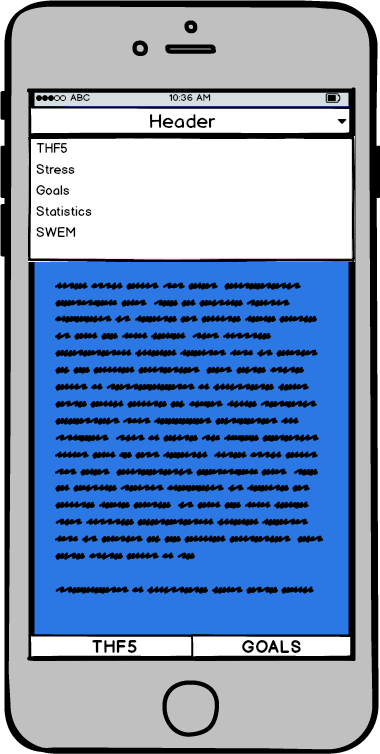
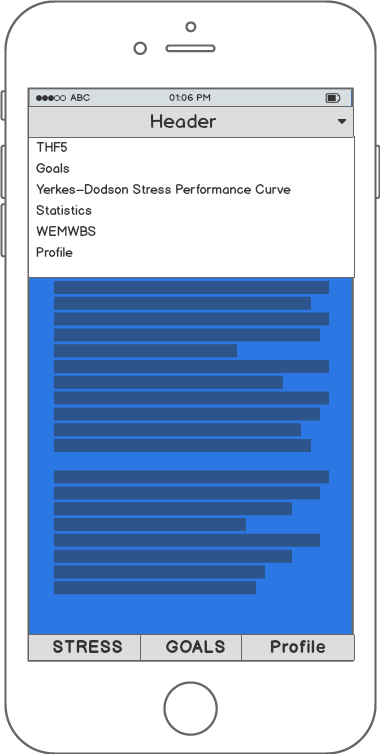
finalized all.
Updated wireframes.
Delete link of homepage.
Formatting several pages.

diff --git a/html5up-helios/development.html b/html5up-helios/development.html
@@ -6,7 +6,7 @@
 -->
 <html>
 	<head>
-		<title>TH5 - Development</title>
+		<title>Development - The Human Five Team 34</title>
 		<meta charset="utf-8" />
 		<meta name="viewport" content="width=device-width, initial-scale=1" />
 		<!--[if lte IE 8]><script src="assets/js/ie/html5shiv.js"></script><![endif]-->
@@ -25,7 +25,7 @@
 					<!-- Inner -->
 						<div class="inner">
 							<header>
-								<h1><a href="index.html" id="logo">The Human Five</a></h1>
+								<h1><a>Development - The Human Five</a></h1>
 							</header>
 						</div>
 
@@ -97,12 +97,11 @@
 							<div class="col-lg-12 text-center">
 								<h2 class="section-heading">Prototypes</h2><br>
 								<p align="left"><strong>
-									<h3>Register, goals and loading</h3><br>
+									<h3><u>Wireframes</u></h3><br><br>
 									<div class="row">
 										<div class="col-md-2">
 											<p class="text-center"> Register</p><img src="images/Wireframe_png/THF5- Register page.png">
 										</div>
-										<div class="col-md-1"></div>
 										<div class="col-md-2">
 	                                        <p class="text-center"> Goals</p><img src="images/Wireframe_png/THF5-Goals page.png">
 										</div>
@@ -122,7 +121,7 @@
 	                                    </div>
 	                                    <div class="col-md-1"></div>
 	                                    <div class="col-md-2">
-	                                            <p class="text-center"> THF5</p><img src="images/Wireframe_png/THF5-RateSelf page.png">
+	                                            <p class="text-center"> THF5 </p><img src="images/Wireframe_png/THF5- RateSelf Body.png">
 	                                    </div>
                                     </div>
                                     <div class="row">
@@ -140,46 +139,57 @@
 	                                    </div>
 	                                    <div class="col-md-1"></div>
 	                                    <div class="col-md-2">
-	                                            <p class="text-center"> SWSE</p><img src="images/Wireframe_png/THF5-SWSE page.png">
+	                                            <p class="text-center"> WEMWBS</p><img src="images/Wireframe_png/THF5- WEMWBS page.png">
 	                                    </div>
                                     </div>		
-
+<div class="row">
+	                                    <div class="col-md-2">
+	                                            <p class="text-center">Menu</p><img src="images/Wireframe_png/THF5-Menu page.png">
+	                                    </div>
+	                                    <div class="col-md-1"></div>
+	                                    <div class="col-md-2">
+	                                            <p class="text-center">Profile</p><img src="images/Wireframe_png/THF5 - Profile.png">
+	                                    </div>
+                                    </div>
+                                   
+                                   
                                     
 
+                                    <br><br><br><br><h3><u>Prototypes</u></h3><br><br>
 
                                     <div class="row">
 	                                    <div class="col-md-2" style="width: 35%;">
-	                                            <p class="text-center"> Login</p><img src="images/Wireframe_png/1.jpg" style="width: 90%;">
+	                                            <p class="text-center"> Login</p><img src="images/Wireframe_png/1.jpg" class="img-border" style="width: 90%;">
 	                                    </div>
 	                                    <div class="col-md-1"></div>
 	                                    <div class="col-md-2" style="width: 35%;">
-	                                            <p class="text-center"> Register</p><img src="images/Wireframe_png/2.jpg" style="width: 90%;">
+	                                            <p class="text-center"> Register</p><img src="images/Wireframe_png/2.jpg" class="img-border" style="width: 90%;">
 	                                    </div>
                                     </div>
 
                             		<div class="row">
 	                                    <div class="col-md-2" style="width: 35%;">
-	                                            <p class="text-center"> THF5</p><img src="images/Wireframe_png/3.jpg" style="width: 90%;">
+	                                            <p class="text-center"> THF5</p><img src="images/Wireframe_png/3.jpg" class="img-border" style="width: 90%;">
 	                                    </div>
 	                                    <div class="col-md-1"></div>
 	                                    <div class="col-md-2" style="width: 35%;">
-	                                            <p class="text-center"> Stress</p><img src="images/Wireframe_png/4.jpg" style="width: 90%;">
+	                                            <p class="text-center"> Stress</p><img src="images/Wireframe_png/4.jpg" class="img-border" style="width: 90%;">
 	                                    </div>
                                     </div>
 
 
                                     <div class="row">
 	                                    <div class="col-md-2" style="width: 35%;">
-	                                            <p class="text-center"> Goals</p><img src="images/Wireframe_png/5.jpg" style="width: 90%;">
+	                                            <p class="text-center"> Goals</p><img src="images/Wireframe_png/5.jpg"  class="img-border" style="width: 90%;">
 	                                    </div>
 	                                    <div class="col-md-1"></div>
 	                                    <div class="col-md-2" style="width: 35%;">
-	                                            <p class="text-center"> SWSE</p><img src="images/Wireframe_png/6.jpg" style="width: 90%;">
+	                                            <p class="text-center"> Add Goals</p><img src="images/Wireframe_png/6.jpg" class="img-border" style="width: 90%;">
 	                                    </div>
                                     </div>		
                                      <div class="row">
 	                                    <div class="col-md-2" style="width: 35%;">
-	                                            <p class="text-center"> Stress</p><img src="images/Wireframe_png/7.jpg" style="width: 90%;">
+	                                            <p class="text-center"> Statistics</p><img src="images/Wireframe_png/7.jpg" class="img-border" style="width: 90%;">
 	                                    </div>
 	                                 </div>
 	                                 </strong>				
@@ -206,7 +216,7 @@
 								<div class="col-lg-12 text-center">
 									<h2 class="section-heading">GitHub Repository</h2>
 										<a href="https://github.com/Keshav97/NHS-IBM-Genomics">
-										<b>Click to visit our GitHub.</b>
+										<br><br><b>Click to visit our GitHub.</b>
 										</a>
 								</div>
 							</div>

diff --git a/html5up-helios/index.html b/html5up-helios/index.html
@@ -6,7 +6,7 @@
 -->
 <html>
 	<head>
-		<title>System Engineering - Team 34</title>
+		<title>The Human Five - Team 34</title>
 		<meta charset="utf-8" />
 		<meta name="viewport" content="width=device-width, initial-scale=1" />
 		<script src="https://ajax.googleapis.com/ajax/libs/jquery/3.1.1/jquery.min.js"></script>
@@ -39,7 +39,7 @@
 					<!-- Inner -->
 						<div class="inner">
 							<header>
-								<h1><a href="index.html" id="logo">The Human Five</a></h1>
+								<h1><a>The Human Five</a></h1>
 								<hr />
 								<p>A Physical and Mental Health Application </p>
 							</header>
@@ -126,7 +126,7 @@
 						<article>
 							<a href="#" class="image featured"><img class="feature"src="images/Self-Assessment.jpg" alt="" /></a>
 							<header>
-								<h3><a href="#">Self-Assessment</a></h3>
+								<h3>Self-Assessment</h3>
 							</header>
 							<p>The application allows each user to rate themselves regularly and setup up goals on a daily/weekly basis.</p>
 						</article>
@@ -134,7 +134,7 @@
 						<article>
 							<a href="#" class="image featured"><img class="feature"src="images/evaluation.jpg" alt="" /></a>
 							<header>
-								<h3><a href="#">Progress Evaluation</a></h3>
+								<h3>Progress Evaluation</h3>
 							</header>
 							<p>The user is able to see his/her data in a graphical way and thus evaluate the progress over time.</p>
 						</article>
@@ -142,7 +142,7 @@
 						<article>
 							<a href="#" class="image featured"><img class="feature"src="images/data-confidentiality.jpg" alt="" /></a>
 							<header>
-								<h3><a href="#">Data Confidentiality</a></h3>
+								<h3>Data Confidentiality</h3>
 							</header>
 							<p>All the users' data will be encrypted to ensure that confidentiality is maintained.</p>
 						</article>
@@ -150,7 +150,7 @@
 						<article>
 							<a href="#" class="image featured"><img class="feature"src="images/cross-platform.png" alt="" /></a>
 							<header>
-								<h3><a href="#">Cross-Platform</a></h3>
+								<h3>Cross-Platform</h3>
 							</header>
 							<p>Available on multi platforms to benefits mobile users from both iOS and Android.</p>
 						</article>
@@ -158,7 +158,7 @@
 						<article>
 							<a href="#" class="image featured"><img class="feature"src="images/notification.jpeg" alt="" /></a>
 							<header>
-								<h3><a href="#">Notifcation</a></h3>
+								<h3>Notifcation</h3>
 							</header>
 							<p>Users get notification pop up on their screen when they have a goal that needs to be finished in time.</p>
 						</article>
@@ -166,7 +166,7 @@
 						<article>
 							<a href="#" class="image featured"><img class="feature"src="images/user-profile.jpg" alt="" /></a>
 							<header>
-								<h3><a href="#">User Profile</a></h3>
+								<h3>User Profile</h3>
 							</header>
 							<p>Users are allowed to change their personal settings such as personal information and privacy.</p>
 						</article>
@@ -174,49 +174,7 @@
 					</div>
 				</section>
 
-			<!-- Main -->
-			<!-- 	<div class="wrapper style2">
-
-					<article id="main" class="container special">
-						<a href="#" class="image featured"></a>
-						<header>
-							<h2><a href="#timeline">Timeline</a></h2>
-						</header>
-						<div>
-						    <div class="text-center">
-	                        <span class="fa-stack fa-4x">
-	                            <i class="fa fa-circle fa-stack-2x text-primary"></i>
-	                            <i class="fa fa-user fa-stack-1x fa-inverse"></i>
-	                        </span>
-	                        <h4 class="service-heading">Self-Assessment</h4>
-	                        <p class="text-muted">
-	                          The application allows each user to rate themselves regularly and setup up goals on a daily/weekly basis
-	                        </p>
-	                   	 	</div>
-	                   	 	<div class="text-center">
-	                        <span class="fa-stack fa-4x">
-	                            <i class="fa fa-circle fa-stack-2x text-primary"></i>
-	                            <i class="fa fa-bar-chart fa-stack-1x fa-inverse"></i>
-	                        </span>
-	                        <h4 class="service-heading">Progress evaluation </h4>
-	                        <p class="text-muted">
-	                          The user is able to see his/her data in a graphical way and thus evaluate the progress over time
-	                        </p>
-	                    </div>
-	                    <div class="text-center">
-	                        <span class="fa-stack fa-4x">
-	                            <i class="fa fa-circle fa-stack-2x text-primary"></i>
-	                            <i class="fa fa-lock fa-stack-1x fa-inverse"></i>
-	                        </span>
-	                        <h4 class="service-heading">Data Confidentiality</h4>
-	                        <p class="text-muted">
-	                          All the users' data will be encrypted to ensure that confidentiality is maintained
-	                        </p>
-	                    </div>
-                   	</div>
-					</article>
-
-				</div> -->
+		
 
 			<!-- team member -->
 				<div class="wrapper style1">

diff --git a/html5up-helios/management.html b/html5up-helios/management.html
@@ -6,7 +6,7 @@
 -->
 <html>
 	<head>
-		<title>THF5 - Management</title>
+		<title>Management - The Human Five Team 34</title>
 		<meta charset="utf-8" />
 		<meta name="viewport" content="width=device-width, initial-scale=1" />
 		<!--[if lte IE 8]><script src="assets/js/ie/html5shiv.js"></script><![endif]-->
@@ -25,7 +25,7 @@
 					<!-- Inner -->
 						<div class="inner">
 							<header>
-								<h1><a href="index.html" id="logo">The Human Five</a></h1>
+								<h1><a>Management - The Human Five</a></h1>
 							</header>
 						</div>
 
@@ -93,7 +93,7 @@
 
 					<div class="container">
 						<article id="ganttChart" class="special">
-							<header><h2>Moscow Requirements</h2></header><br>
+							<header><h2>Gantt Chart</h2></header><br>
 							<img class="img" src="images/Gant.png" alt="" style="width:100%;"/></a>
 					</div>
 					<br><br><br><br>
@@ -108,6 +108,7 @@
 					<div class="container">
 						<article id="meetings" class="special">
 							<header><h2>Minutes Reports links</h2></header><br>
+							<a href="https://docs.google.com/spreadsheets/d/18jl45nCY04U_CtcpSBKT2pvfd4bJxPMFhYOnFxNCvas/edit#gid=0"><h3><u>Minutes Report</u></h3></a>
 					</div>
 
 					

diff --git a/html5up-helios/research.html b/html5up-helios/research.html
@@ -6,7 +6,7 @@
 -->
 <html>
 	<head>
-		<title>No Sidebar - Helios by HTML5 UP</title>
+		<title>Research - The Human Five Team 34</title>
 		<meta charset="utf-8" />
 		<meta name="viewport" content="width=device-width, initial-scale=1" />
 		<script src="https://ajax.googleapis.com/ajax/libs/jquery/3.1.1/jquery.min.js"></script>
@@ -29,7 +29,7 @@
 					<!-- Inner -->
 						<div class="inner">
 							<header>
-								<h1><a href="index.html" id="logo">The Human Five</a></h1>
+								<h1><a>Research - The Human Five</a></h1>
 							</header>
 						</div>
 

diff --git a/html5up-helios/requirement.html b/html5up-helios/requirement.html
@@ -6,7 +6,7 @@
 -->
 <html>
 	<head>
-		<title>THF5-Requirement</title>
+		<title>Requirement - The Human Five Team 34</title>
 		<meta charset="utf-8" />
 		<meta name="viewport" content="width=device-width, initial-scale=1" />
 		<script src="https://ajax.googleapis.com/ajax/libs/jquery/3.1.1/jquery.min.js"></script>
@@ -29,7 +29,7 @@
 					<!-- Inner -->
 						<div class="inner">
 							<header>
-								<h1><a href="index.html" id="logo">The Human Five</a></h1>
+								<h1><a>Requirements - The Human Five</a></h1>
 							</header>
 						</div>
 

diff --git a/html5up-helios/overview.html b/html5up-helios/overview.html
@@ -6,7 +6,7 @@
 -->
 <html>
 	<head>
-		<title>TH5 - Overview</title>
+		<title>Overview - The Human Five Team 34</title>
 		<meta charset="utf-8" />
 		<meta name="viewport" content="width=device-width, initial-scale=1" />
 		<!--[if lte IE 8]><script src="assets/js/ie/html5shiv.js"></script><![endif]-->
@@ -25,7 +25,7 @@
 					<!-- Inner -->
 						<div class="inner">
 							<header>
-								<h1><a href="index.html" id="logo">The Human Five</a></h1>
+								<h1><a>Overview - The Human Five</a></h1>
 							</header>
 						</div>
 

diff --git a/html5up-helios/assets/css/main.css b/html5up-helios/assets/css/main.css
@@ -6,6 +6,10 @@
 	html5up.net | @ajlkn
 	Free for personal and commercial use under the CCA 3.0 license (html5up.net/license)
 */
+.img-border {
+   padding:1px;
+   border:1px solid #021a40;
+}
 
 .feature {
 	    position: relative;
